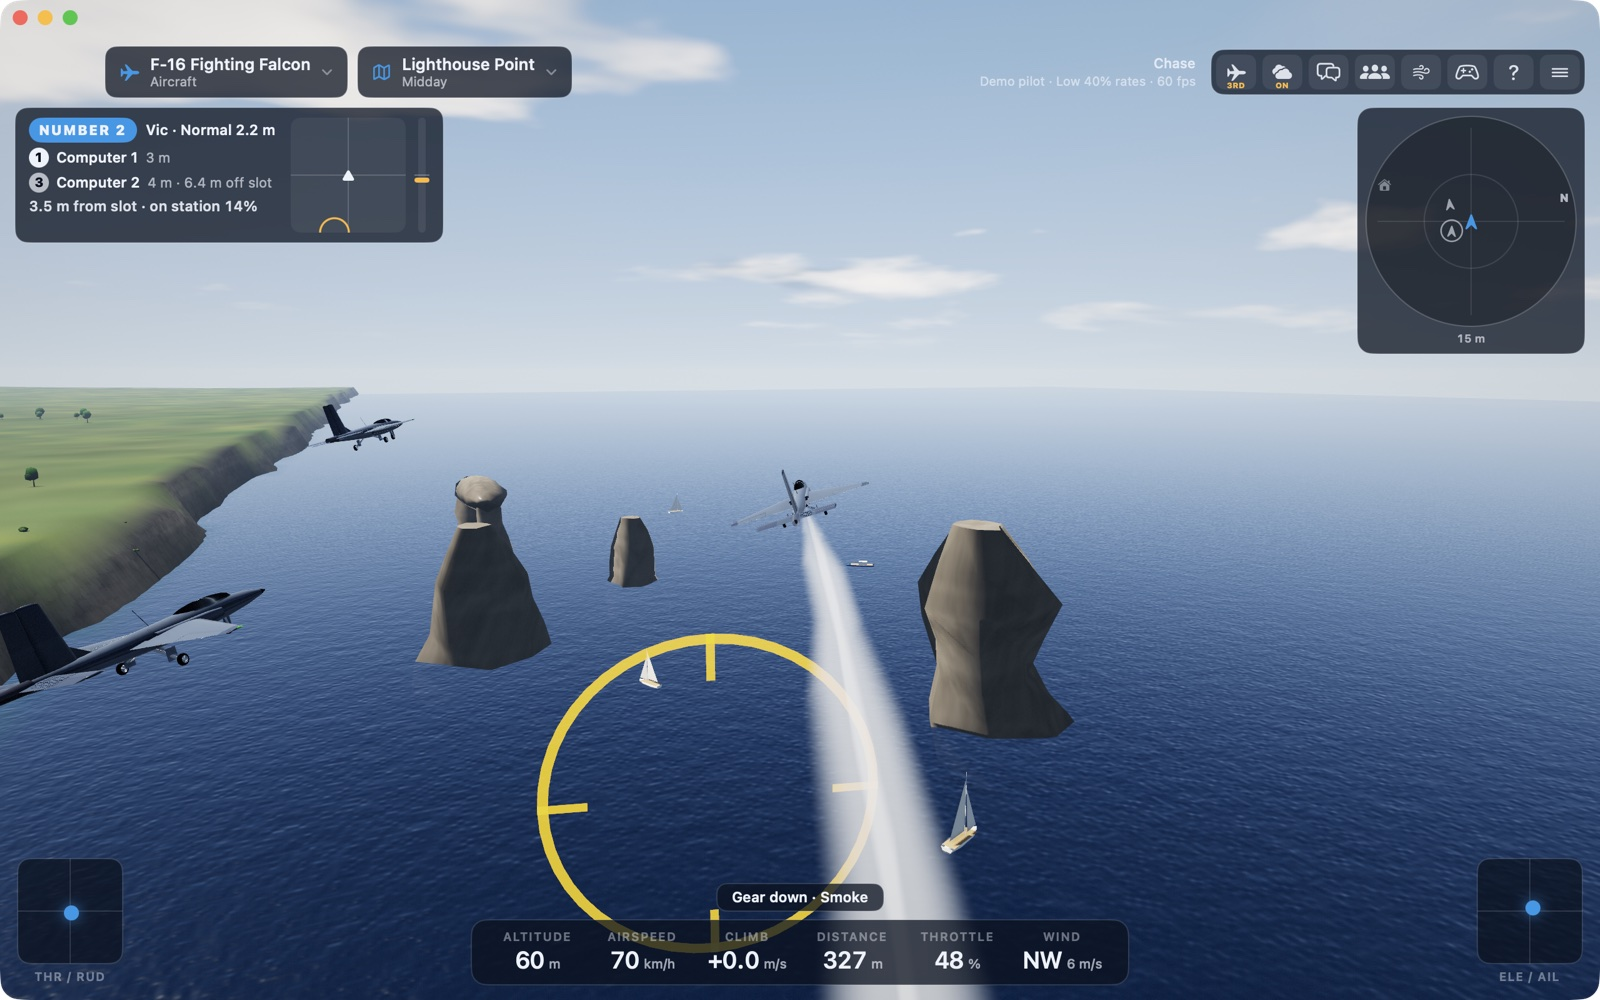
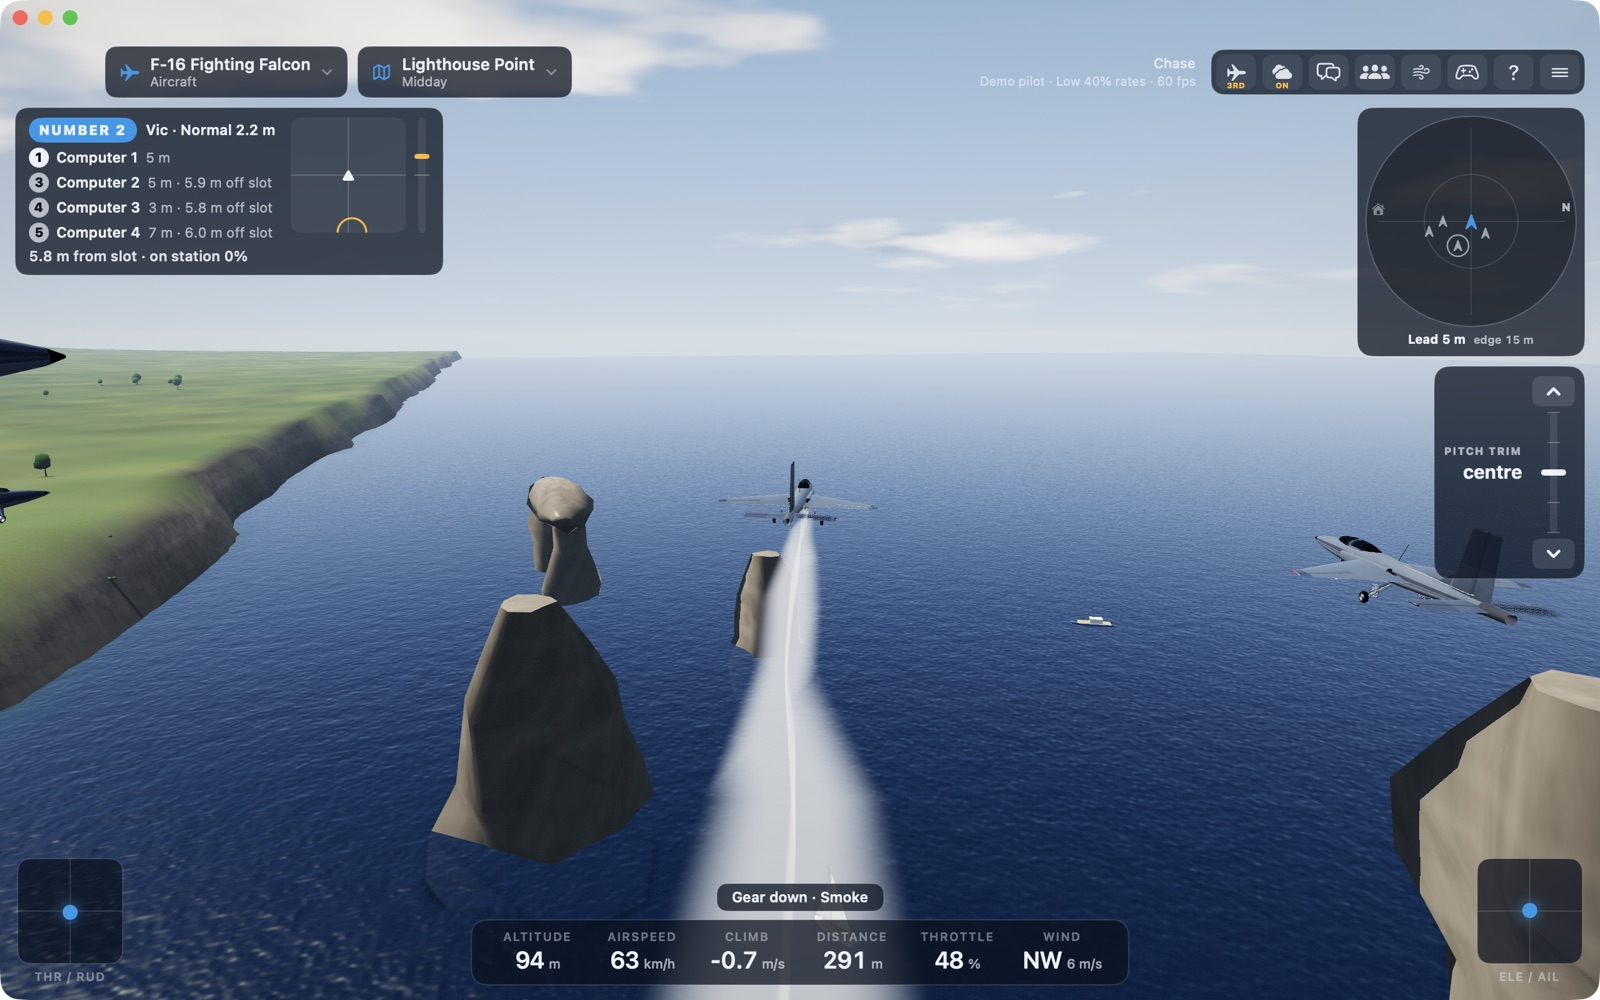
Version 1.0.5
README: figures measured again, Controller Setup, known launch limits,
current screenshots.

diff --git a/README.md b/README.md
@@ -8,7 +8,7 @@
 
 | | |
 |---|---|
-| ![In flight as number 2: formation box, slot ring, map, smoke](Resources/Screenshots/flight.jpg) | ![Choosing a flying site](Resources/Screenshots/sites.jpg) |
+| ![In flight as number 2: formation box, map, trim gauge, smoke](Resources/Screenshots/flight.jpg) | ![Choosing a flying site](Resources/Screenshots/sites.jpg) |
 | ![Choosing an aircraft](Resources/Screenshots/aircraft.jpg) | ![Choosing the formation](Resources/Screenshots/formation.jpg) |
 
 - **41 aircraft**, 23 of them FPV wings and planes, 12 of those modelled on ones you can buy.
@@ -86,13 +86,13 @@ Forty-one fixed-wing aircraft; there are no helicopters or multirotors. The **FP
 | Aircraft | Category | Span | Weight | Stall | Half throttle | Flat out |
 |---|---|---|---|---|---|---|
 | Alight Flik Wing | FPV Aircrafts | 0.50 m | 235 g | 31 | 44 | 83 |
-| HeeWing F-01 | FPV Aircrafts | 0.69 m | 500 g | 37 | 60 | 110 |
+| HeeWing F-01 | FPV Aircrafts | 0.69 m | 500 g | 37 | 60 | 111 |
 | AtomRC Dolphin | FPV Aircrafts | 0.85 m | 620 g | 36 | 54 | 101 |
-| SonicModell AR Wing | FPV Aircrafts | 0.90 m | 620 g | 35 | 53 | 98 |
+| SonicModell AR Wing | FPV Aircrafts | 0.90 m | 620 g | 35 | 53 | 99 |
 | TBS Chupito | FPV Aircrafts | 0.80 m | 650 g | 40 | 134 | 222 |
 | AtomRC Penguin | FPV Aircrafts | 0.75 m | 680 g | 40 | 47 | 91 |
 | HeeWing T1 Ranger | FPV Aircrafts | 0.73 m | 480 g | 29 | 43 | 83 |
-| HeeWing T2 Cruza | FPV Aircrafts | 1.20 m | 1900 g | 38 | 52 | 100 |
+| HeeWing T2 Cruza | FPV Aircrafts | 1.20 m | 1900 g | 37 | 52 | 100 |
 | HeeWing H1 Hunter | FPV Aircrafts | 0.68 m | 245 g | 22 | 33 | 63 |
 | ZOHD Altus | FPV Aircrafts | 0.98 m | 920 g | 32 | 46 | 88 |
 | AtomRC Swordfish | FPV Aircrafts | 1.20 m | 1150 g | 39 | 54 | 101 |
@@ -103,17 +103,17 @@ What these are and are not:
 - The **figures** are the makers' and retailers': span, flying weight, wing area where given, motor size, and for the Chupito the published stall, cruise and top speeds. Where sources disagree (the Dolphin's weight, the Flik's span) a middle value is used. For the others the speeds are what pilots usually report for aircraft of that size and power, not measurements of mine.
 - The **shapes** are built from photographs of the real aircraft: the Flik's large dark winglets, the F-01's down-turned red tips, the Dolphin's long pointed nose and single fin, the AR Wing in black with a red leading edge, white bands and chequered fins, the black forward-swept Chupito with its fin on the body, the Penguin's wide lifting body with two motors and two leaning fins, the grey T1 Ranger and T2 Cruza as a pod on a thin boom with a tall fin, the Altus and Swordfish with their V-tails, the Hunter's tube fuselage and red dashes, and the Drift with its motor on a pylon behind the wing. They are made from simple generated shapes: wings are straight-tapered, bodies are not blended into the wing, and there are no printed graphics. V-tails are drawn as V-tails but fly as the plain tail of the same size.
 - The Penguin is modelled as the tailless lifting body it is, and with its small listed wing area stalls at about 40 km/h.
-- Each is trimmed in pitch for a gentle cruise (37 to 60 km/h) and in roll against its propeller's torque, as you would on the first flights, so it flies straight with the sticks let go.
-- **Pitch trim follows the speed, and the throttle.** A model trimmed for a gentle cruise noses up hard when it goes fast. Every powered aircraft now has that trimmed out, as a transmitter mix would: calibrated from level runs on half and on full throttle, it holds the aircraft level at any speed with the stick centred, and acts from the moment of the throw, as fast as a servo. On top of that a throttle-to-elevator mix cancels what the motor's own thrust does to the pitch (a motor on a pylon pushes the nose down). The result flies where it is pointed: open the throttle and it goes faster, not up. A climb is kept, not steepened, until you push. `--powertest` measures it, `--pitchtrace <aircraft>` follows one through a throw and throttle changes, hands off. `--spintrace <aircraft>` follows a spin and `--rolltrace <aircraft>` a torque roll, with the moment of each surface.
-- **Launching.** A hand-launched aircraft stays in your hand, motor running, until you press **Launch**: Space, the right shoulder button of a gamepad, or a transmitter switch assigned to Launch in Controller Setup. The computer pilots beside you throw theirs at the same moment. On the autopilot the aircraft throws itself.
-- **Trim gauge.** Under the map: the pitch trim in clicks, laid out as the elevator trim on a transmitter: the arrow above trims nose down, the one below nose up, and the marker moves the same way.
+- Each is trimmed in pitch for a cruise (25 km/h for the Hunter up to 106 km/h for the Chupito) and in roll against its propeller's torque, as you would on the first flights, so it flies straight with the sticks let go.
+- **Pitch trim follows the speed.** A model trimmed for cruise noses up hard when it goes fast, so every powered aircraft except the two 3D foamies has that trimmed out: calibrated from level runs on half and on full throttle, the trim feeds in down elevator as the speed rises, as fast as a servo. In level flight on full throttle none needs more than 3% of the low-rate stick to stay level. It is not a stabiliser: in a climb with the stick left alone the nose still wanders, and some aircraft end in a stall or a dive (see [Not yet done](#not-yet-done)), so fly the climb-out. `--powertest` measures it, `--pitchtrace <aircraft>` follows one through a throw and throttle changes, hands off. `--spintrace <aircraft>` follows a spin and `--rolltrace <aircraft>` a torque roll, with the moment of each surface.
+- **Launching.** A hand-launched aircraft stays in your hand, motor running, until you press **Launch**: Space, the right shoulder button of a gamepad, or a transmitter switch assigned to Launch under **Switches and buttons** in Controller Setup. The computer pilots beside you throw theirs at the same moment. On the autopilot the aircraft throws itself.
+- **Trim gauge.** Under the map: the pitch trim in clicks, laid out as the elevator trim on a transmitter: the arrow above trims nose down, the one below nose up, and the marker moves the same way. Each aircraft keeps its trim until you quit; every start of the game begins with all trims at zero.
 - None of them has a flight controller: no stabilisation, no return to home.
 
-**The 3D foamies** (Foam Extra XL, Shock Flyer 800) are built 0–0, wing and tailplane at zero incidence, as their builders set them up: neutral, so they fly the same upright and inverted and hang without wanting to go anywhere. They get no cruise trim and no speed trim; with the stick centred they settle at about 30 and 18 km/h. Their fin and rudder run as far below the fuselage line as above it, as real profile planes are cut. So rolling in a hover (a torque roll) no longer swings the nose over: with full aileron and the rudder and elevator left alone, the Foam Extra XL is 3° off vertical after half a second, where it was 15°, and a pilot holding the hover needs 1% rudder instead of 6%. The rudder no longer rolls them either, which helps in knife-edge. Their sticks are set up as 3D pilots set theirs: 65% expo (other aerobats 35%), so on high rates the hover is calm around the centre and full stick still has the full throw.
+**The 3D foamies** (Foam Extra XL, Shock Flyer 800) are built 0–0, wing and tailplane at zero incidence, as their builders set them up: neutral, so they fly the same upright and inverted and hang without wanting to go anywhere. They get no cruise trim and no speed trim; with the stick centred they settle at about 30 and 18 km/h. Their fin and rudder run as far below the fuselage line as above it, as real profile planes are cut. Their propellers, like every propeller in the simulator, resist being moved sideways through the air (propeller normal force), which steadies a hover. So rolling in a hover (a torque roll) no longer swings the nose over: two seconds into a roll with full aileron and the rudder and elevator left alone, the Foam Extra XL is 7° off vertical and the Shock Flyer 9°, and a pilot holding the hover needs 1% rudder. The rudder no longer rolls them either, which helps in knife-edge. Their sticks are set up as 3D pilots set theirs: 65% expo (other aerobats 35%), so on high rates the hover is calm around the centre and full stick still has the full throw.
 
 **The other categories** each have two or three aircraft from FlightCore OSX: trainers, scale civil, warbirds, aerobatic, foam 3D, jets and gliders. Those that are not hand-launched start on the runway, one behind the other in formation order. The eleven original flying wings are in FPV Aircrafts with the rest.
 
-**Computer partners** fly every aircraft. In `--formtest`, with four of them in a five-ship, they hold their slots to 1.7 m RMS on average over all forty-one aircraft and without a crash; the worst are the big gliders in the outer places (up to 7 m for the Thermal 2M). For fast aircraft the computer lead flies a larger racetrack.
+**Computer partners** fly every aircraft. In `--formtest`, with four of them in a five-ship, they hold their slots to 1.7 m RMS on average over all forty-one aircraft and without a crash; the worst are the big gliders in the outer places (7 m for the Thermal Wing 2.4, 6 m for the Thermal 2M). For fast aircraft the computer lead flies a larger racetrack.
 
 **Views.** The app opens covering the whole screen. FPV aircraft start in the view from on board, everything else in the view from behind; the first button of the bar at the top right switches between the two at any time (the C key still steps through all three cameras).
 
@@ -159,7 +159,7 @@ Twenty-nine sites, none of them from FlightCore OSX. The site browser filters by
 | Tundra | Winter | Snow-patched grass and black meltwater pools; a research station on legs |
 | Ski Resort | Winter | Three pistes through snowy forest, a chairlift with a solid cable, chalets |
 
-**Changing site** builds the new landscape and everything drawn on it in the background while the old one stays on screen, and swaps it in when it is ready (about a tenth of a second), so the menu never stalls. The preview pictures in the site list are decoded in the background at launch. `--loadtime` times each step for every site.
+**Changing site** builds the new landscape and everything drawn on it in the background while the old one stays on screen, and swaps it in when it is ready (a tenth to a fifth of a second), so the menu does not stall. The preview pictures in the site list are decoded in the background at launch. `--loadtime` times each step for every site.
 
 **How the sites are drawn.** There are no picture textures: every surface is drawn by the shader from what it is. Buildings get framed windows (some lit after sunset, some with blinds down), shopfronts with name boards on the ground floor of offices and towers, shutters on houses, cladding, brickwork and concrete panels, so a tower is one box and still has a thousand windows. Roofs are tiled in courses, timber is boarded with the grain showing. The ground knows what it is from its colour: turf grows in clumps and dries in patches, sand has wind ripples and grain, snow has drifts and crystals that glint in the sun, bare earth has stones lying on it, the yards are concrete slabs with stains and the Old Town is cobbled. Steep ground turns to layered, fractured rock. Farmland round the open sites is divided into fields of different crops. Lamps, runway lights and lighthouse lanterns glow at dusk. The terrain grid is 16 m.
 
@@ -197,7 +197,7 @@ The **Lobby** (main menu, the speech-bubble button in the top bar, or **Return**
     - Keyboard: **B** in flight.
     - Gamepad: left shoulder button; works in the lobby too.
     - USB transmitter or joystick: assign "Push to talk" to a switch or button.
-    - A transmitter switch is assigned in Controller Setup (⌘,).
+    - A transmitter switch is assigned in Controller Setup (⌘,), under **Switches and buttons**.
   - *Open mic:* sends whenever you speak. Wear headphones, or the others hear themselves through your speakers; there is no echo cancellation.
   - The slider sets how loud the others are.
 
@@ -244,7 +244,15 @@ Formations for up to five: vic, echelon right, echelon left, line astern, line a
 | − =, 0 | Pitch trim nose down / up, centre (also the two arrows of the trim gauge: upper nose down, lower nose up) |
 | Esc, Tab | Main menu, wing browser |
 
-**H** in the app lists the rest. Gamepads and USB RC transmitters work as in FlightCore OSX (Controller Setup, ⌘,).
+**H** in the app lists the rest.
+
+## Controller Setup
+
+**⌘,** or the gamepad button in the top bar opens Controller Setup, and closes it again. Gamepads and USB RC transmitters are detected automatically, as in FlightCore OSX. The window holds the channels and calibration of a transmitter, the stick mode, rates and expo, and **Switches and buttons**, where any action can be put on a switch or button.
+
+**Rates:** each aircraft has its own low rate and expo unless you switch on your own, and every flight starts on low rates; **L** or an assigned switch changes between low and high.
+
+**Calibration** always runs on 100% rates on every axis; the selected rates return when it ends, and closing Controller Setup cancels it. The simulator cannot change a transmitter's own rates, so set those to 100% first: if aileron, elevator, throttle or rudder covers less than 95% of the USB range, the calibration is not saved and the short channels are named. **Save Anyway** is for transmitters and dongles that never send the full range.
 
 ## What is in the source
 
@@ -265,6 +273,9 @@ Command-line checks: `--powertest` reports how much stick each aircraft needs to
 
 ## Not yet done
 
+- Left alone on full throttle after the throw, some aircraft reach the ground. TBS Chupito, Twin Trekker 1.3 and HeeWing H1 Hunter climb first and then dive in, 5 to 9 seconds after the throw; HeeWing T1 Ranger, T2 Cruza, ZOHD Altus, AtomRC Swordfish, ZOHD Drift and Thermal 2M sink straight away. Hold the climb with the elevator.
+- Hands off through a steep climb, a throttle cut and the stall that follows, HeeWing F-01, AtomRC Dolphin and Speed Arrow 900 do not pull out of the dive before the ground.
+- Calibration was tested with simulated sticks, not with a real transmitter.
 - The new aircraft were checked by the automated flight test, not flown by hand or compared against flight logs of the real ones.
 
 - The new sites were checked by rendering each one and by `--sitetest`; none of the race tracks or obstacle courses has been flown by hand, so how hard they are is a guess.
@@ -273,7 +284,7 @@ Command-line checks: `--powertest` reports how much stick each aircraft needs to
 
 - Tested with copies on one Mac only: local discovery with two copies, and a host with two joiners (local discovery switched off, so everything went by way of the host). Separate Macs, peer-to-peer Wi-Fi and a real internet path with its delay have not been tried, and the router on the test network did not open the port by itself, so the automatic port opening has only been seen to fail politely.
 - The session controls and the five-pilot limit were tested with copies on one Mac: a host and one guest through start, stop, restart, a change of site and daylight, and the wing lock; and a host with five joiners, of whom each flew with four others. With more than five copies, who ignores whom is not coordinated.
-- Push to talk on a gamepad or a USB transmitter could not be tried here: no controller was connected. The keyboard key and the setup window were built but only the logic was exercised.
+- Push to talk on a gamepad or a USB transmitter could not be tried here: no controller was connected. Only the logic was exercised.
 - Voice has been tested without a microphone: a generated tone went through the coder, the network (direct and by way of the host) and the decoder and came out at the right level, and the players started. Capture from a real microphone, how it sounds, and the delay have not been checked by ear.
 - No echo cancellation or noise suppression, and no per-pilot mute.
 - Positions are predicted forward to cover network delay; this suits a local network, and has not been tuned for the 50 to 150 ms of an internet path.
